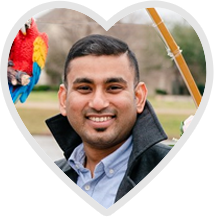
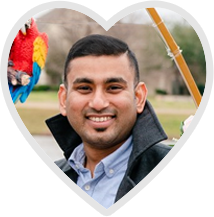
photo update

Changed region(s): [[0.3645, 0.1659, 0.4766, 0.2765], [0.5047, 0.1935, 0.5607, 0.2212]]

diff --git a/index.html b/index.html
@@ -226,7 +226,7 @@
 								<div class="item">
 									<div class="brd_grm_wrap">
 										<div class="family_mem_img">
-											<img src="img/family/meenu1.png" alt="" />
+											<img src="img/family/meenu2.png" alt="" />
 										</div>
 										<div class="heart_frame">
 											<img class="def_frm" src="img/family/family-mem-frm.png" alt="" />

diff --git a/style.css b/style.css
@@ -3297,7 +3297,7 @@ div.timeline_img:hover .inner-extra p{
 	padding-left:16px;
 	z-index:999999;
 	margin-top:-165px;
-	margin-left:16px;
+	margin-left:15px;
 	}
 
 .loader {
